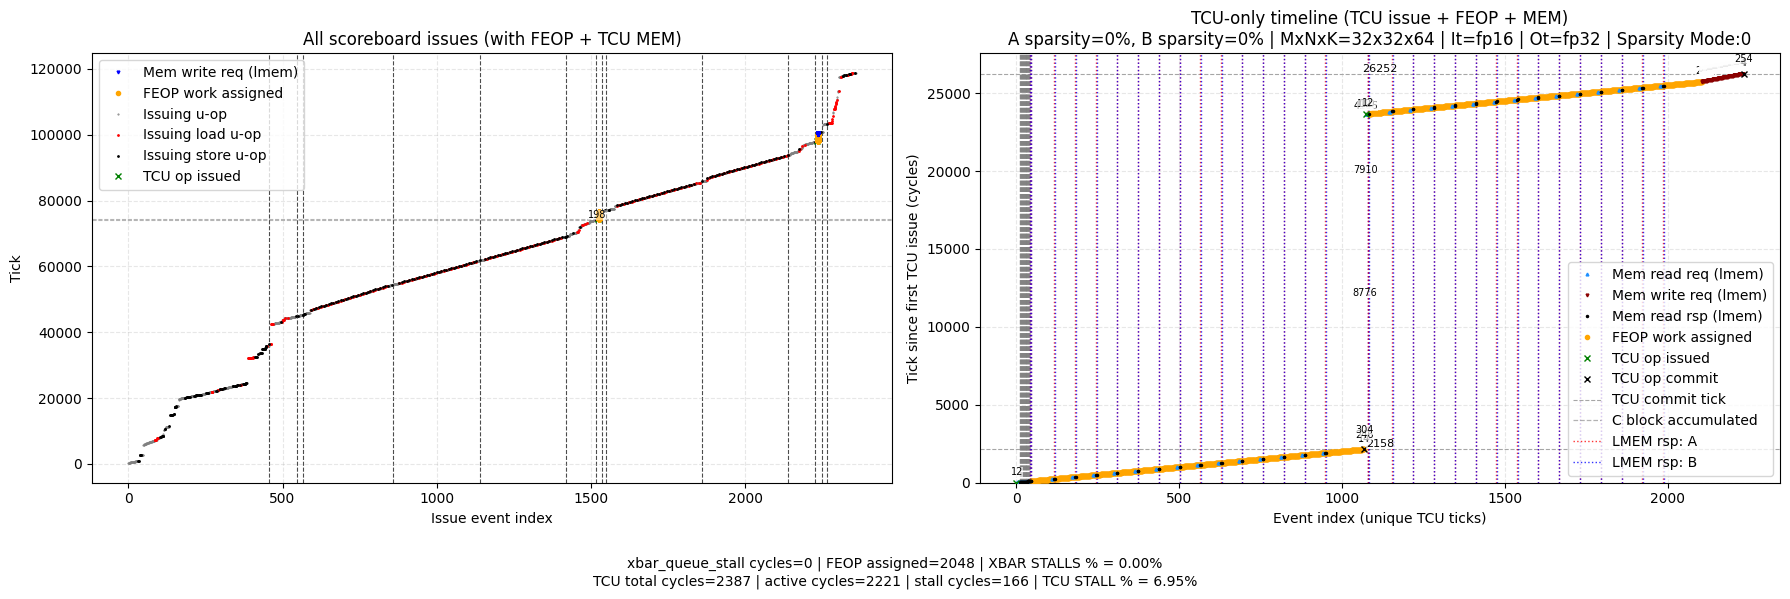
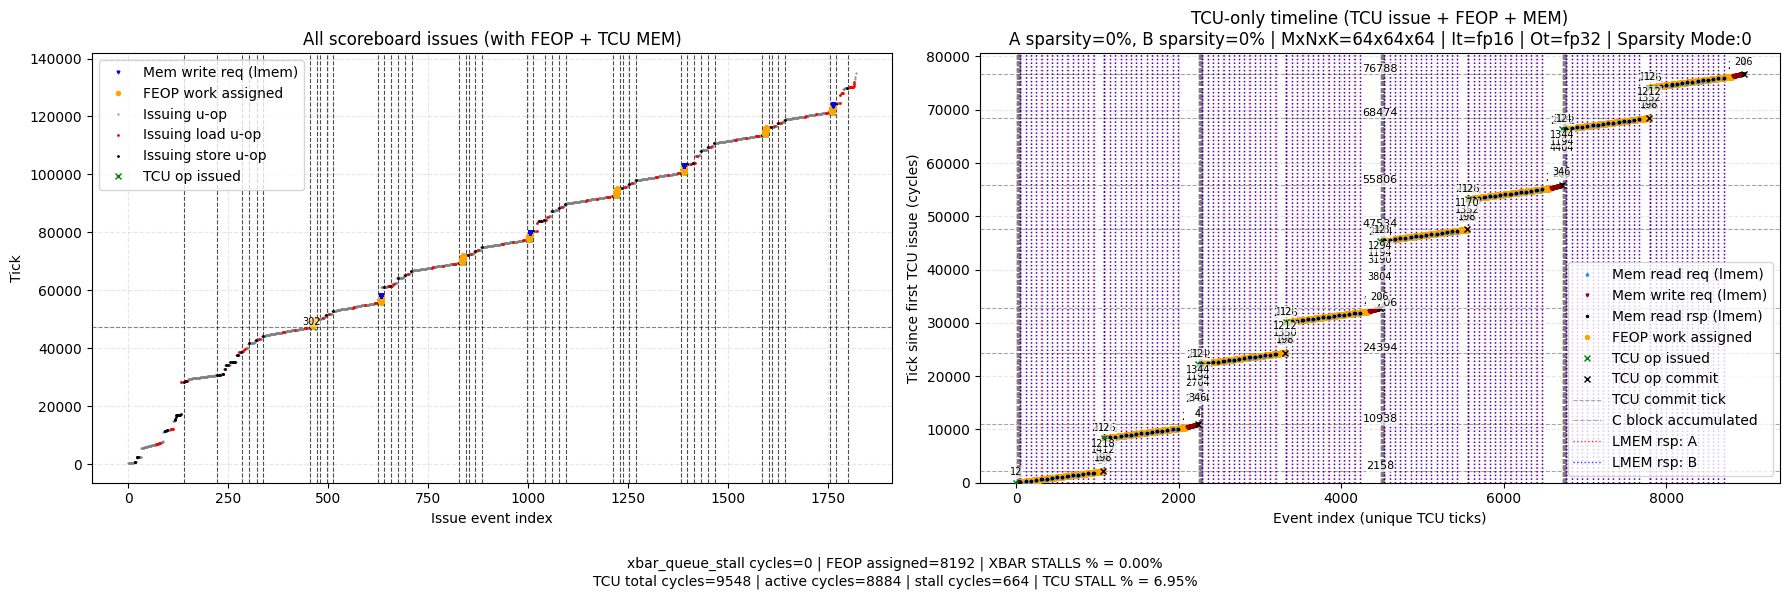
added DXA & KMU - only s0 working

diff --git a/tests/regression/sgemm_tcu_op/kernel.cpp b/tests/regression/sgemm_tcu_op/kernel.cpp
@@ -1,7 +1,8 @@
 
 #include "common.h"
-#include <vx_spawn.h>
+#include <vx_spawn2.h>
 #include <vx_barrier.h>
+#include <vx_dxa.h>
 #include <vx_tensor.h>
 
 #include <VX_config.h>
@@ -25,25 +26,31 @@
 #define SGEMM_CONST_SPARSITY 0
 #endif
 
-#define MARKER 0x12345678 // Generic stage marker value
-#define BLUE_MARKER 0x12345677 // Generic stage marker value
-#define PRE_TCU_MARKER 0x12345679 // Dedicated marker for the point immediately before mma_op
+#define MARKER 0x12345678
+#define BLUE_MARKER 0x12345677
+#define PRE_TCU_MARKER 0x12345679
 
 namespace vt = vortex::tensor;
 using ctx = vt::wmma_context<NUM_THREADS, vt::ITYPE, vt::OTYPE>;
-static constexpr uint32_t LMEM_OVERFLOW_MARKER = 0x4c4d454d; // "LMEM"
+static constexpr uint32_t LMEM_OVERFLOW_MARKER = 0x4c4d454d;
+static constexpr uint32_t kDescA = 0;
+static constexpr uint32_t kDescB = 1;
+static constexpr uint32_t kDescC = 2;
 
-// Read 64-bit cycle counter using mcycle/mcycleh CSRs (user-level cycle CSR is not implemented).
+#undef __local_mem
+#define __local_mem(size) \
+  (void*)(csr_read(VX_CSR_CTA_LMEM_ADDR))
+
 static inline uint64_t rdcycle() {
 #if __riscv_xlen == 64
     uint64_t value;
-    asm volatile ("csrr %0, 0xB00" : "=r"(value)); // mcycle
+    asm volatile ("csrr %0, 0xB00" : "=r"(value));
     return value;
 #else
     uint32_t hi0, lo, hi1;
-    asm volatile ("csrr %0, 0xB80" : "=r"(hi0)); // mcycleh
-    asm volatile ("csrr %0, 0xB00" : "=r"(lo));  // mcycle
-    asm volatile ("csrr %0, 0xB80" : "=r"(hi1)); // mcycleh
+    asm volatile ("csrr %0, 0xB80" : "=r"(hi0));
+    asm volatile ("csrr %0, 0xB00" : "=r"(lo));
+    asm volatile ("csrr %0, 0xB80" : "=r"(hi1));
     if (hi0 != hi1) {
         asm volatile ("csrr %0, 0xB00" : "=r"(lo));
     }
@@ -70,8 +77,7 @@ static constexpr uint32_t div_up_constexpr(uint32_t value, uint32_t divisor) {
   return (value + divisor - 1) / divisor;
 }
 
-void kernel_body(kernel_arg_t *__UNIFORM__ arg) 
-{
+extern "C" void kernel_main(kernel_arg_t *__UNIFORM__ arg) {
   if (vx_thread_id() == 0) {(reinterpret_cast<uint32_t *>(arg->D_addr))[0] = MARKER;}
 
   auto pA = reinterpret_cast<uint32_t *>(arg->A_addr);
@@ -113,10 +119,10 @@ void kernel_body(kernel_arg_t *__UNIFORM__ arg)
   const uint32_t block_tile_id = blockIdx.y * gridDim.x + blockIdx.x;
   const uint32_t warp_tile_id = block_tile_id * warps_per_group + local_warp;
   const bool active_warp = (warp_tile_id < total_tiles);
-  // One TCU completion barrier per local warp to avoid cross-warp interference.
+  vortex::barrier c_tile_bar(local_warp, 1);
+  vortex::barrier ab_tile_bar(2 + local_warp, 1);
   vortex::barrier tcu_bar(4 + local_warp, 1);
 
-  // calculate the starting tile row based on block + local warp
   const uint32_t tile_row = (tiles_n == 0) ? 0 : (warp_tile_id / tiles_n) * tile_M;
 
   static_assert (LMEM_ENABLED);
@@ -144,21 +150,14 @@ void kernel_body(kernel_arg_t *__UNIFORM__ arg)
                                              : sparse_dense_a_regs;
   const uint32_t tileB_regs = (sparsity == 0) ? dense_half0_first_b_regs
                            : sparse_comp_regs;
-  // In sparse mode, skew B base by 16 words so A/B start addresses are 32*n+16 apart.
-  // This avoids first-half A/B loads aliasing on the same bank pattern.
-  // const uint32_t ab_skew_regs = (sparsity > 0 && K >= 32) ? 16 : 0;
-  // Also skew bitmap B base in sparse==2.
-  // Desired A/B bitmap base separation examples:
-  // K=16 -> 16 words, K=32 -> 48 words, K=40 -> 80 words.
-  // bitmap_skew_regs is extra spacing beyond K words.
   const uint32_t bitmap_span = (sparsity == 0) ? 0 : tile_K;
   const uint32_t bitmap_sep_regs = (bitmap_span <= 16)
                                    ? 16
                                    : (((bitmap_span + 31) / 32) * 32 + 16);
   const uint32_t bitmap_skew_regs = (sparsity == 2) ? (bitmap_sep_regs - bitmap_span) : 0;
-  const uint32_t bitmap_regs = (sparsity == 2) ? (2 * bitmap_span) : 
-                               (sparsity == 1) ?      bitmap_span  : 
-                               0; // K words each for A/B bitmaps
+  const uint32_t bitmap_regs = (sparsity == 2) ? (2 * bitmap_span) :
+                               (sparsity == 1) ?      bitmap_span  :
+                               0;
   const uint32_t sparse_regs_per_warp = tileA_regs + tileB_regs + tileC_regs + bitmap_regs + bitmap_skew_regs;
   const uint32_t regs_per_warp = (sparsity == 0) ? (lmem_capacity_bytes / sizeof(uint32_t))
                                                  : sparse_regs_per_warp;
@@ -187,10 +186,9 @@ void kernel_body(kernel_arg_t *__UNIFORM__ arg)
                                      : (B_lmem + tileB_regs);
   uint32_t* bitmap_lmem = C_lmem + tileC_regs;
   uint32_t* A_bitmap_lmem = (sparsity == 2) ? bitmap_lmem     : nullptr;
-  uint32_t* B_bitmap_lmem = (sparsity == 2) ? bitmap_lmem + bitmap_span + bitmap_skew_regs : 
-                            (sparsity == 1) ? bitmap_lmem     : 
+  uint32_t* B_bitmap_lmem = (sparsity == 2) ? bitmap_lmem + bitmap_span + bitmap_skew_regs :
+                            (sparsity == 1) ? bitmap_lmem     :
                             nullptr;
-  // D overwrites the C tile in local memory
   uint32_t* D_lmem = C_lmem;
   auto pA_elems = reinterpret_cast<ctx::input_t *>(pA);
   auto pB_elems = reinterpret_cast<ctx::input_t *>(pB);
@@ -199,7 +197,7 @@ void kernel_body(kernel_arg_t *__UNIFORM__ arg)
   const uint32_t gtid = vx_thread_id();
   const uint32_t gstride = vx_num_threads();
   const bool lane0 = (gtid == 0);
-
+  const bool is_dxa_quad = (gtid < 4);
 
   if (active_warp && (vx_warp_id() == 0) && lane0) {C_lmem[0] = MARKER;}
 
@@ -208,16 +206,19 @@ void kernel_body(kernel_arg_t *__UNIFORM__ arg)
 
     for (uint32_t tile_col_idx = 0; tile_col_idx < tiles_n; ++tile_col_idx) {
       const uint32_t b_tile_base = tile_col_idx * K * tile_N;
-      
+
       const uint32_t tile_id = tile_row_idx * tiles_n + tile_col_idx;
-      uint32_t* mma_D = pD + tile_id * tileD_regs;
-
+      const uintptr_t mma_D_addr = static_cast<uintptr_t>(arg->D_addr)
+                                 + static_cast<uintptr_t>(tile_id) * tileD_regs * sizeof(uint32_t);
+      uint32_t* mma_D = reinterpret_cast<uint32_t*>(mma_D_addr);
       const uint32_t* mma_C = reinterpret_cast<const uint32_t *>(C_lmem);
-
       const uint32_t* pC_tile = pC + tile_id * tileC_regs;
 
       if (active_warp && lane0) {mma_D[0] = MARKER;}
-      copy_tile_to_lmem(C_lmem, pC_tile, tileC_regs, gtid, gstride);
+      if (active_warp && is_dxa_quad) {
+        vx_dxa_issue_2d_wg(kDescC, c_tile_bar.id(), C_lmem, 0, tile_id);
+      }
+      c_tile_bar.arrive_and_wait();
       if (active_warp && lane0) {mma_D[0] = MARKER;}
 
       if constexpr (kDense) {
@@ -265,34 +266,40 @@ void kernel_body(kernel_arg_t *__UNIFORM__ arg)
           const uint32_t flags_chunk = (((k_offset == 0) ? 1u : 0u) << 1) | (((k_offset + curr_k) == K) ? 1u : 0u);
 
           if (active_warp && lane0) {mma_D[0] = MARKER;}
-          copy_tile_to_lmem(chunk_A_elems, pA_chunk, a_elems, gtid, gstride);
-          if (active_warp && lane0) {mma_D[0] = MARKER;}
-          copy_tile_to_lmem(chunk_B_elems, pB_chunk, b_elems, gtid, gstride);
-          if (active_warp && lane0) {mma_D[0] = MARKER;}
-
-          switch (gtid) {
-            case 0: rs1_val = reinterpret_cast<uintptr_t>(chunk_A); break;
-            case 1: rs1_val = reinterpret_cast<uintptr_t>(chunk_B); break;
-            case 2: rs1_val = reinterpret_cast<uintptr_t>(mma_C); break;
-            case 3: rs1_val = reinterpret_cast<uintptr_t>(mma_D); break;
-            case 4: rs1_val = reinterpret_cast<uintptr_t>(mma_A_bitmap); break;
-            case 5: rs1_val = reinterpret_cast<uintptr_t>(mma_B_bitmap); break;
-            default: break;
+          if (active_warp && is_dxa_quad) {
+            vx_dxa_issue_2d_wg(kDescA, ab_tile_bar.id(), chunk_A, 0, tile_row_idx * tiles_k + k_tile_idx);
           }
-
-          switch (gtid) {
-            case 0: rs2_val = a_blocks; break;
-            case 1: rs2_val = b_blocks; break;
-            case 2: rs2_val = curr_k; break;
-            case 3: rs2_val = vt::ITYPE::id; break;
-            case 4: rs2_val = vt::OTYPE::id; break;
-            case 5: rs2_val = static_cast<uint32_t>(kConstSparsity); break;
-            case 6: rs2_val = tcu_bar.id(); break;
-            case 7: rs2_val = flags_chunk; break;
-            default: break;
+          ab_tile_bar.arrive_and_wait();
+          if (active_warp && lane0) {mma_D[0] = MARKER;}
+          if (active_warp && is_dxa_quad) {
+            vx_dxa_issue_2d_wg(kDescB, ab_tile_bar.id(), chunk_B, 0, tile_col_idx * tiles_k + k_tile_idx);
           }
+          ab_tile_bar.arrive_and_wait();
+          if (active_warp && lane0) {mma_D[0] = MARKER;}
 
-          if (gtid == 3) rs1_val = reinterpret_cast<uintptr_t>(mma_D);
+          if (gtid == 0) {
+            rs1_val = reinterpret_cast<uintptr_t>(chunk_A);
+            rs2_val = a_blocks;
+          } else if (gtid == 1) {
+            rs1_val = reinterpret_cast<uintptr_t>(chunk_B);
+            rs2_val = b_blocks;
+          } else if (gtid == 2) {
+            rs1_val = reinterpret_cast<uintptr_t>(mma_C);
+            rs2_val = curr_k;
+          } else if (gtid == 3) {
+            rs1_val = mma_D_addr;
+            rs2_val = vt::ITYPE::id;
+          } else if (gtid == 4) {
+            rs1_val = reinterpret_cast<uintptr_t>(mma_A_bitmap);
+            rs2_val = vt::OTYPE::id;
+          } else if (gtid == 5) {
+            rs1_val = reinterpret_cast<uintptr_t>(mma_B_bitmap);
+            rs2_val = static_cast<uint32_t>(kConstSparsity);
+          } else if (gtid == 6) {
+            rs2_val = tcu_bar.id();
+          } else if (gtid == 7) {
+            rs2_val = flags_chunk;
+          }
           if (active_warp && lane0) {mma_D[0] = PRE_TCU_MARKER;}
           ctx::mma_op(rs1_val, rs2_val);
           tcu_bar.arrive_and_wait();
@@ -355,29 +362,29 @@ void kernel_body(kernel_arg_t *__UNIFORM__ arg)
           copy_tile_to_lmem(chunk_B_elems, pB_chunk, b_elems, gtid, gstride);
           if (active_warp && lane0) {mma_D[0] = MARKER;}
 
-          switch (gtid) {
-            case 0: rs1_val = reinterpret_cast<uintptr_t>(chunk_A); break;
-            case 1: rs1_val = reinterpret_cast<uintptr_t>(chunk_B); break;
-            case 2: rs1_val = reinterpret_cast<uintptr_t>(mma_C); break;
-            case 3: rs1_val = reinterpret_cast<uintptr_t>(mma_D); break;
-            case 4: rs1_val = reinterpret_cast<uintptr_t>(mma_A_bitmap); break;
-            case 5: rs1_val = reinterpret_cast<uintptr_t>(mma_B_bitmap); break;
-            default: break;
+          if (gtid == 0) {
+            rs1_val = reinterpret_cast<uintptr_t>(chunk_A);
+            rs2_val = a_blocks;
+          } else if (gtid == 1) {
+            rs1_val = reinterpret_cast<uintptr_t>(chunk_B);
+            rs2_val = b_blocks;
+          } else if (gtid == 2) {
+            rs1_val = reinterpret_cast<uintptr_t>(mma_C);
+            rs2_val = curr_k;
+          } else if (gtid == 3) {
+            rs1_val = mma_D_addr;
+            rs2_val = vt::ITYPE::id;
+          } else if (gtid == 4) {
+            rs1_val = reinterpret_cast<uintptr_t>(mma_A_bitmap);
+            rs2_val = vt::OTYPE::id;
+          } else if (gtid == 5) {
+            rs1_val = reinterpret_cast<uintptr_t>(mma_B_bitmap);
+            rs2_val = static_cast<uint32_t>(kConstSparsity);
+          } else if (gtid == 6) {
+            rs2_val = tcu_bar.id();
+          } else if (gtid == 7) {
+            rs2_val = flags_chunk;
           }
-
-          switch (gtid) { 
-            case 0: rs2_val = a_blocks; break;
-            case 1: rs2_val = b_blocks; break;
-            case 2: rs2_val = curr_k; break;
-            case 3: rs2_val = vt::ITYPE::id; break;
-            case 4: rs2_val = vt::OTYPE::id; break;
-            case 5: rs2_val = static_cast<uint32_t>(kConstSparsity); break;
-            case 6: rs2_val = tcu_bar.id(); break;
-            case 7: rs2_val = flags_chunk; break;
-            default: break;
-          }
-
-          if (gtid == 3) rs1_val = reinterpret_cast<uintptr_t>(mma_D);
           if (active_warp && lane0) {mma_D[0] = PRE_TCU_MARKER;}
           ctx::mma_op(rs1_val, rs2_val);
           tcu_bar.arrive_and_wait();
@@ -387,12 +394,5 @@ void kernel_body(kernel_arg_t *__UNIFORM__ arg)
     }
   }
 
-  // Marker: single LMEM write so the cycle shows up in the trace.
   if (active_warp && (vx_warp_id() == 0) && lane0) {A_lmem[0] = MARKER;}
-}
-
-int main() {
-    // vx_printf("Kernel started\n");
-    auto arg = (kernel_arg_t *)csr_read(VX_CSR_MSCRATCH);
-    return vx_spawn_threads(2, arg->grid_dim, arg->block_dim, (vx_kernel_func_cb)kernel_body, arg);
 }

diff --git a/tests/regression/sgemm_tcu_op/main.cpp b/tests/regression/sgemm_tcu_op/main.cpp
@@ -12,6 +12,7 @@
 #include <util.h>
 #include <vector>
 #include <vortex.h>
+#include <dxa.h>
 #include <cstring>
 
 #define FLOAT_ULP 6
@@ -786,6 +787,9 @@ vx_buffer_h B_nz_buffer = nullptr;
 vx_buffer_h krnl_buffer = nullptr;
 vx_buffer_h args_buffer = nullptr;
 kernel_arg_t kernel_arg = {};
+static constexpr uint32_t kDescA = 0;
+static constexpr uint32_t kDescB = 1;
+static constexpr uint32_t kDescC = 2;
 
 std::string last_build_options;
 
@@ -1150,12 +1154,8 @@ int main(int argc, char *argv[]) {
   std::cout << "matrix A: " << M << "x" << K << std::endl;
   std::cout << "matrix B: " << K << "x" << N << std::endl;
   std::cout << "matrix C: " << M << "x" << N << std::endl;
-
-  // set block size to warp size
-  kernel_arg.grid_dim[0] = 1; // N / 32; // cfg::tileN;
-  kernel_arg.grid_dim[1] = 1; // M / 32; // cfg::tileM;
-  kernel_arg.block_dim[0] = NT;    // warp sizeb
-  kernel_arg.block_dim[1] = 1;
+  uint32_t grid_dim[2]  = {1, 1};
+  uint32_t block_dim[2] = {(uint32_t)NT, 1};
 
   // set matrix dimensions
   kernel_arg.M = M;
@@ -1438,6 +1438,43 @@ int main(int argc, char *argv[]) {
     RT_CHECK(vx_copy_to_dev(C_buffer, h_C_packed.data(), 0, sizeC * sizeof(otype_t)));
   }
 
+  {
+    constexpr uint32_t tile_M = 32;
+    constexpr uint32_t tile_N = 32;
+    const uint32_t tile_c_elems = tile_M * tile_N;
+    const uint32_t total_c_tiles = (M / tile_M) * (N / tile_N);
+
+    RT_CHECK(vx_dxa_program_desc_2d(
+        device, kDescC, kernel_arg.C_addr,
+        tile_c_elems, total_c_tiles,
+        tile_c_elems * sizeof(otype_t),
+        tile_c_elems, 1,
+        sizeof(otype_t)));
+  }
+
+  if (sparsity == 0) {
+    constexpr uint32_t tile_M = 32;
+    constexpr uint32_t tile_N = 32;
+    const uint32_t tile_a_elems = tile_M * input_tile_k;
+    const uint32_t total_a_tiles = (M / tile_M) * (K / input_tile_k);
+    const uint32_t tile_b_elems = input_tile_k * tile_N;
+    const uint32_t total_b_tiles = (N / tile_N) * (K / input_tile_k);
+
+    RT_CHECK(vx_dxa_program_desc_2d(
+        device, kDescA, kernel_arg.A_addr,
+        tile_a_elems, total_a_tiles,
+        tile_a_elems * sizeof(itype_t),
+        tile_a_elems, 1,
+        sizeof(itype_t)));
+
+    RT_CHECK(vx_dxa_program_desc_2d(
+        device, kDescB, kernel_arg.B_addr,
+        tile_b_elems, total_b_tiles,
+        tile_b_elems * sizeof(itype_t),
+        tile_b_elems, 1,
+        sizeof(itype_t)));
+  }
+
   // upload program
   std::cout << "upload program" << std::endl;
   RT_CHECK(vx_upload_kernel_file(device, kernel_file, &krnl_buffer));
@@ -1450,7 +1487,7 @@ int main(int argc, char *argv[]) {
 
   // start device
   std::cout << "start device" << std::endl;
-  RT_CHECK(vx_start(device, krnl_buffer, args_buffer));
+  RT_CHECK(vx_start_g(device, krnl_buffer, args_buffer, 2, grid_dim, block_dim, 0));
 
   // wait for completion
   std::cout << "wait for completion" << std::endl;

diff --git a/tests/regression/sgemm_tcu_op/common.h b/tests/regression/sgemm_tcu_op/common.h
@@ -16,8 +16,6 @@
 #endif
 
 typedef struct {
-  uint32_t grid_dim[2];
-  uint32_t block_dim[2];
   uint32_t M, N, K;
   uint64_t A_addr;
   uint64_t B_addr;
